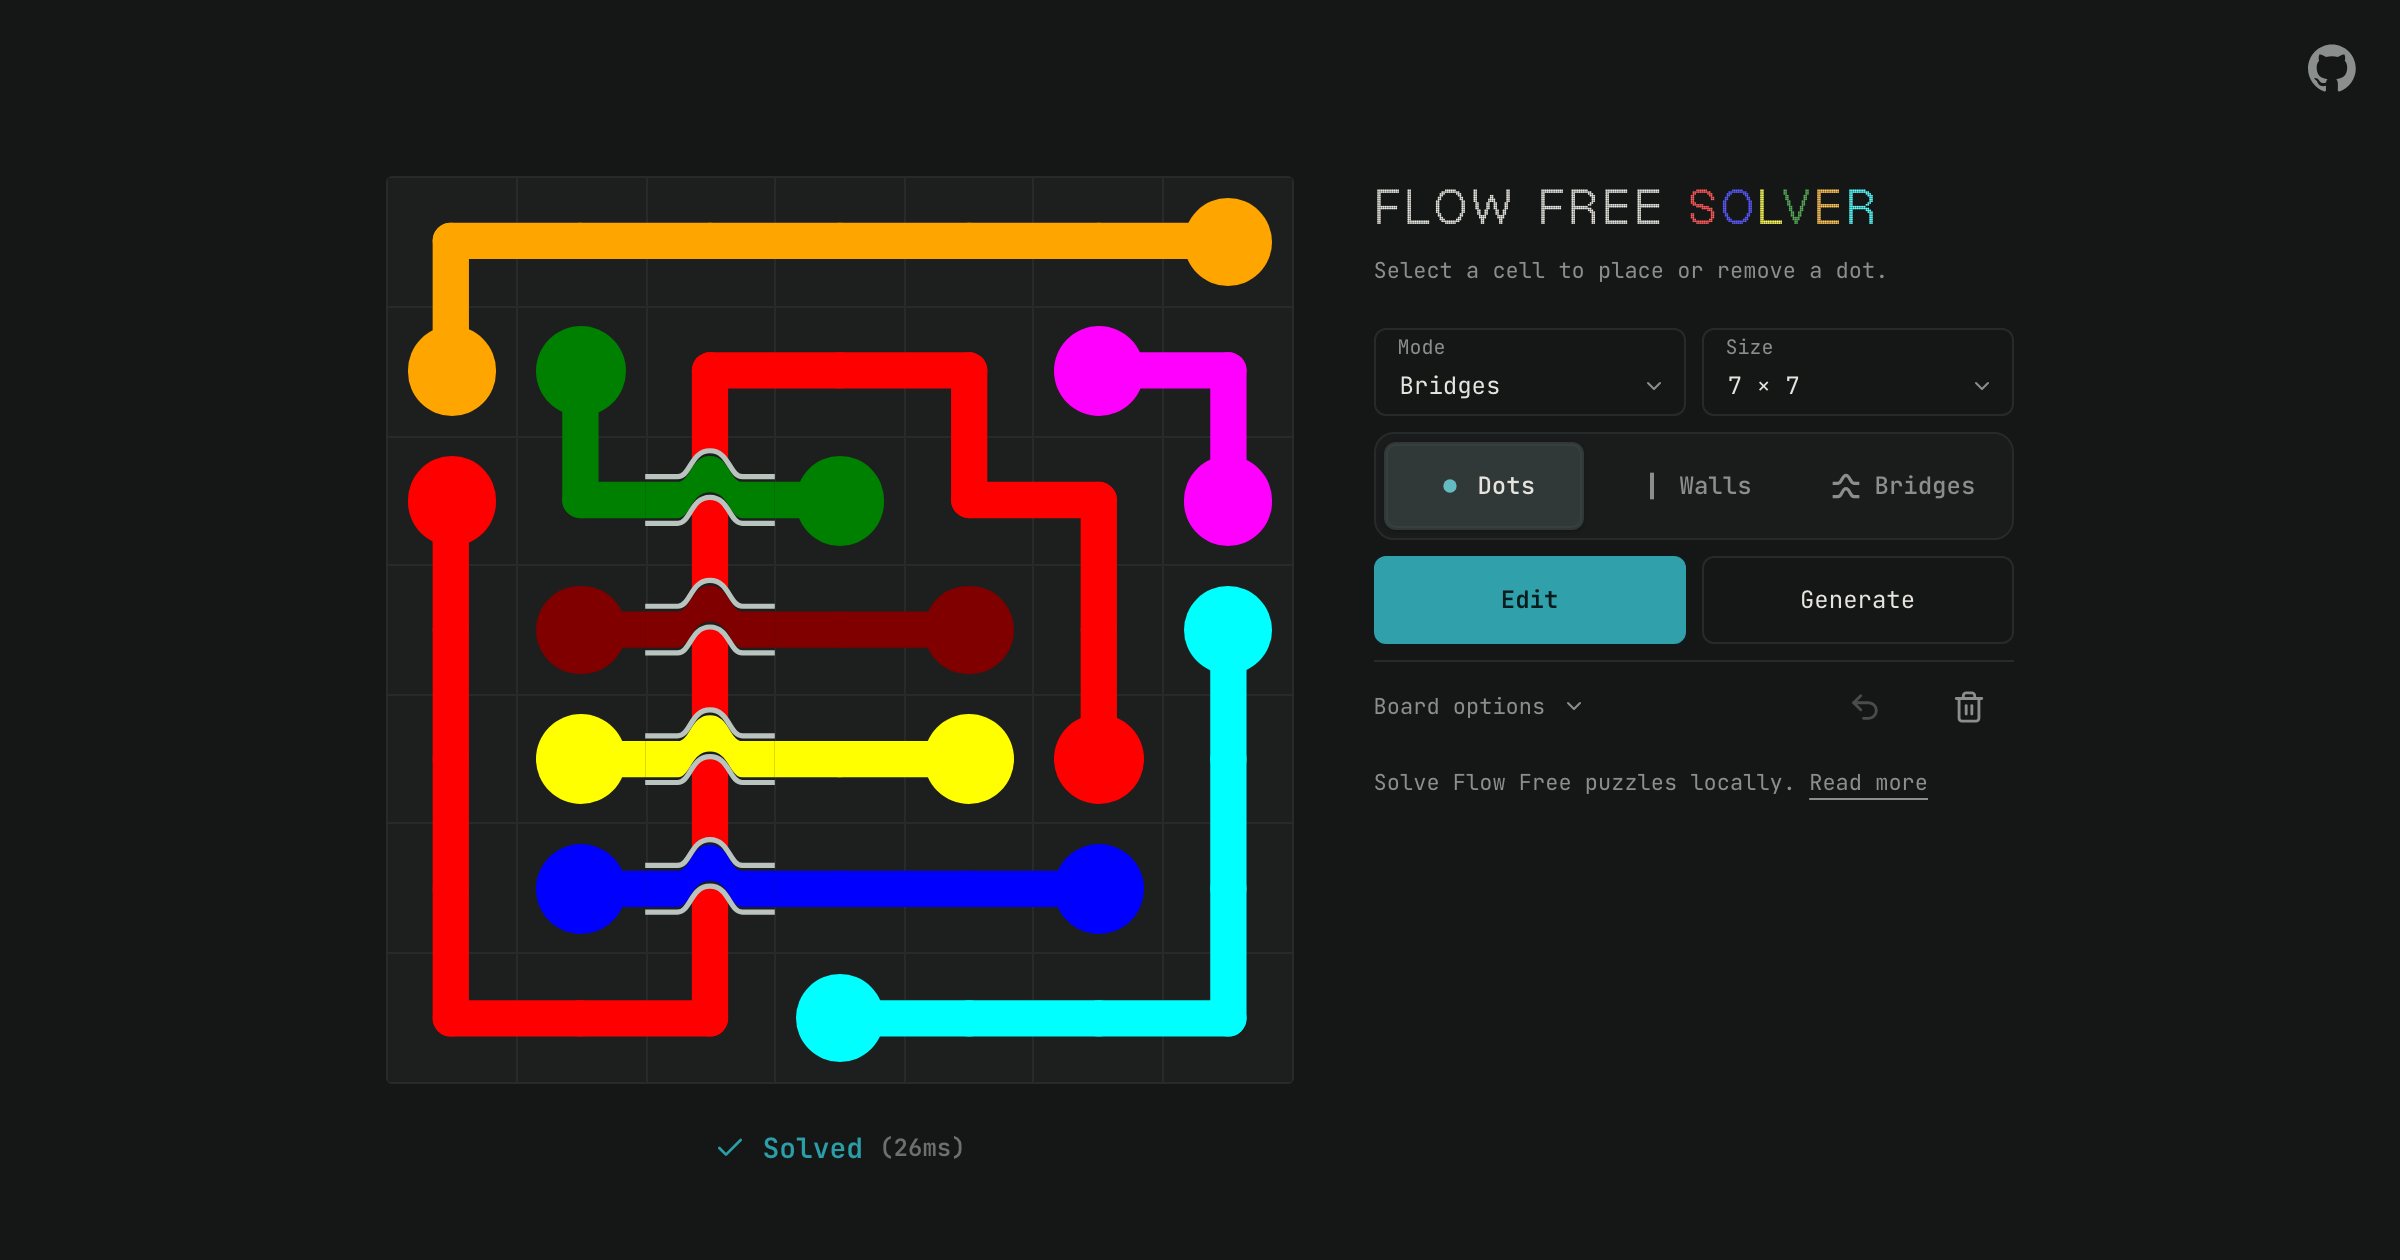
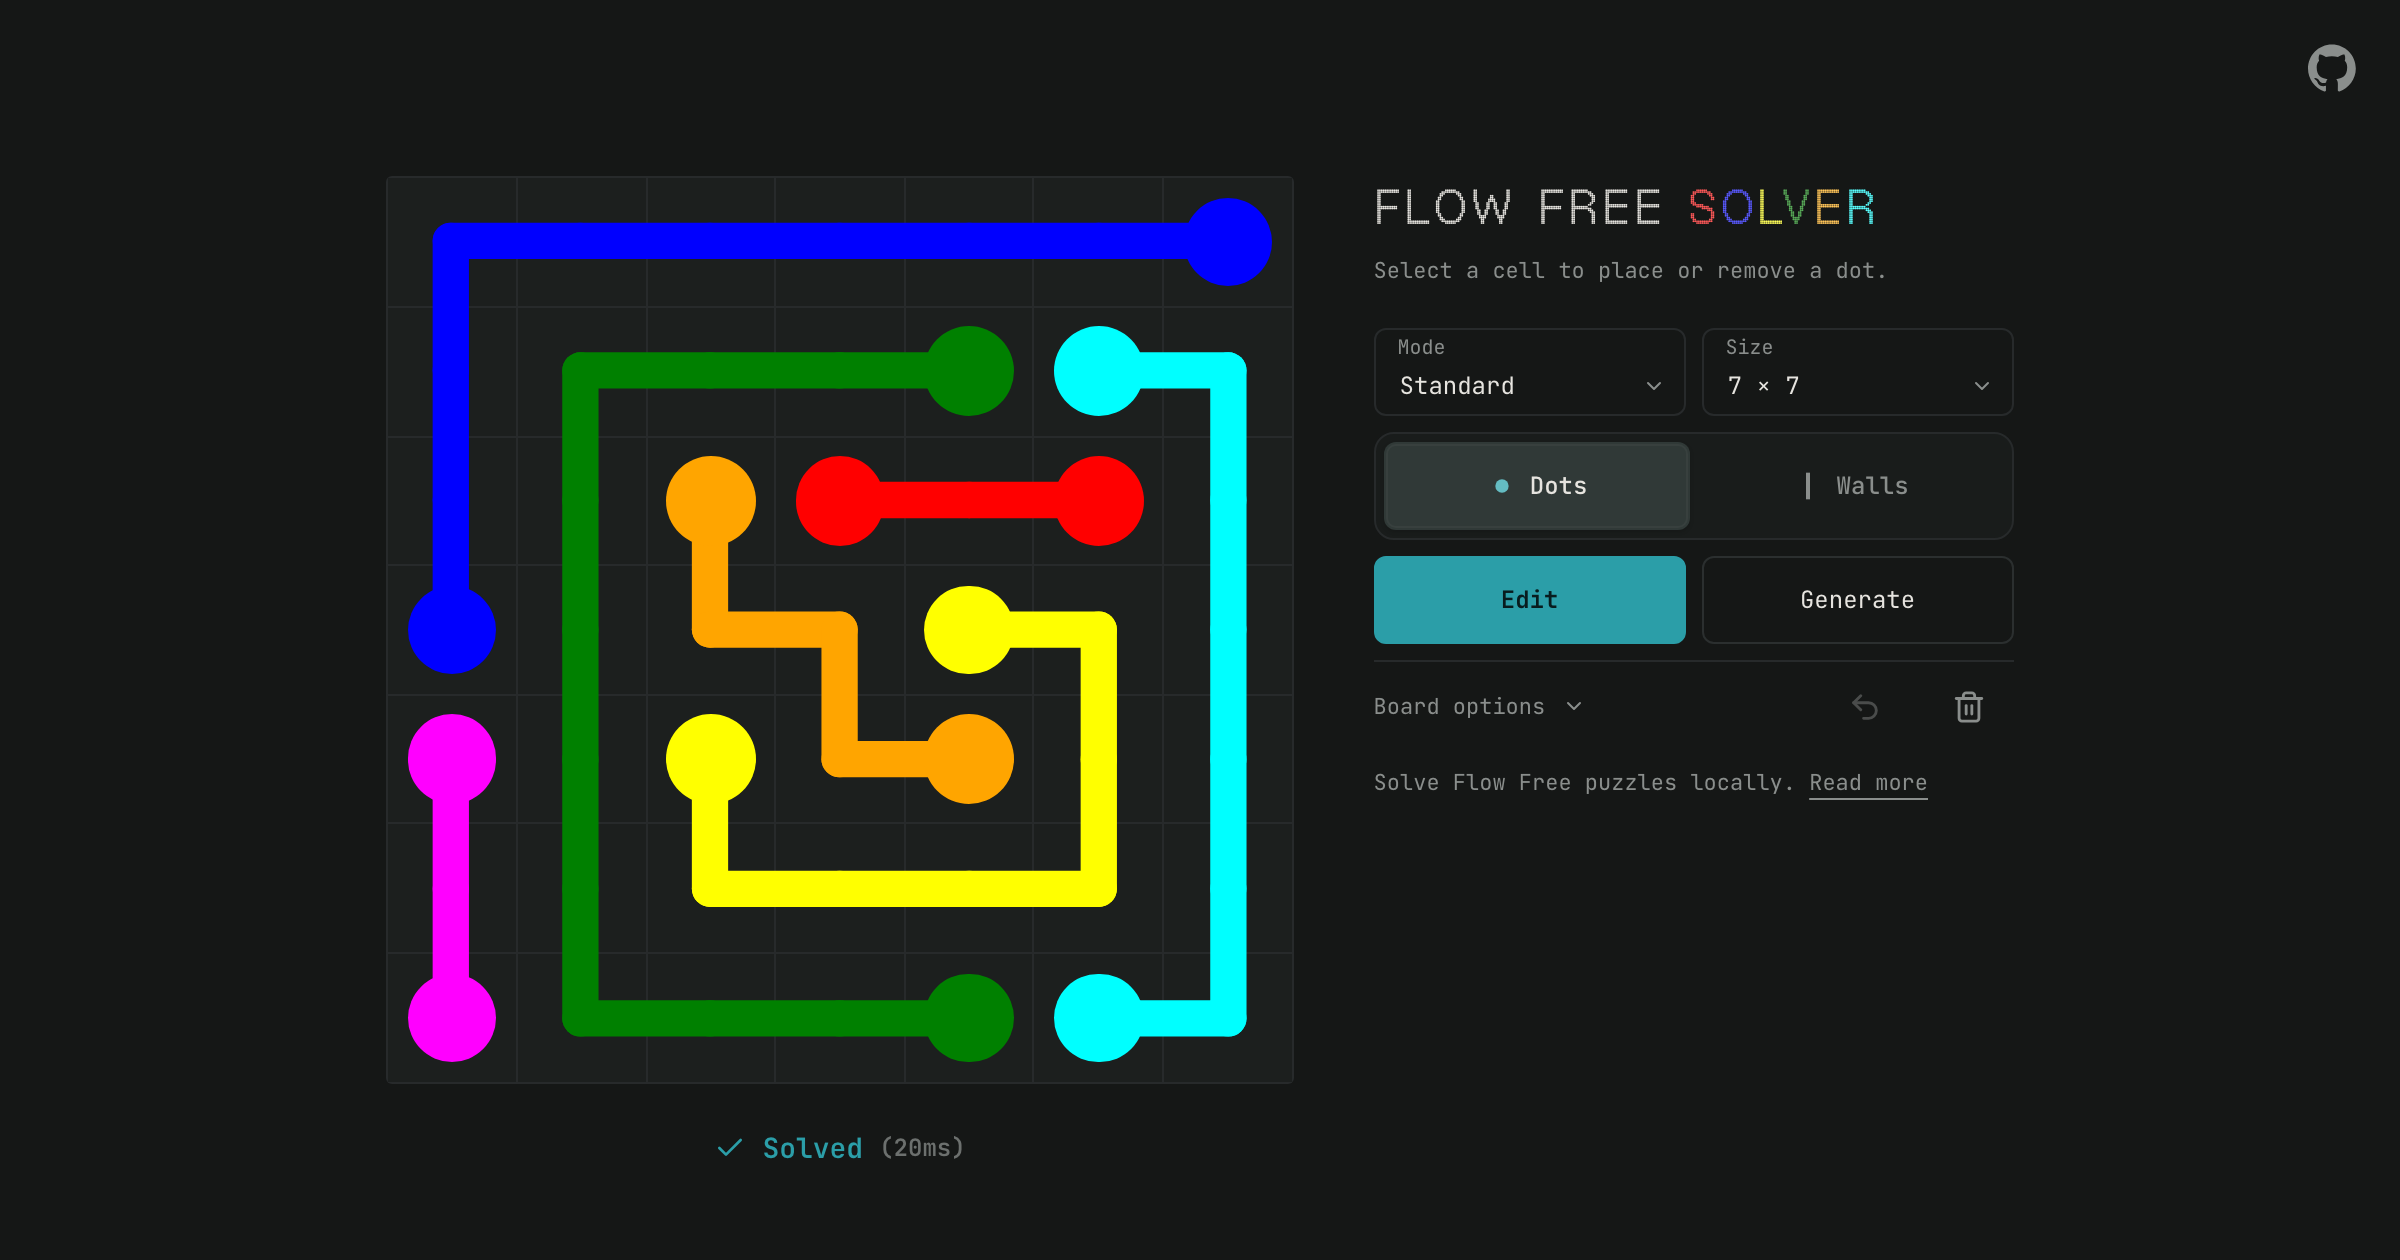
seo: add readable Standard-mode sharing cover

Changed region(s): [[0.1562, 0.1548, 0.5312, 0.8667], [0.5938, 0.3405, 0.7188, 0.4333], [0.75, 0.3714, 0.8125, 0.4024]]

diff --git a/index.html b/index.html
@@ -16,19 +16,19 @@
     content="Free online solver for Flow Free and Numberlink, including Bridges and Warps. Edit or generate 5x5 to 15x15 puzzles and solve locally in your browser." />
   <meta property="og:type" content="website" />
   <meta property="og:url" content="https://flow.kongesque.com/" />
-  <meta property="og:image" content="https://flow.kongesque.com/flow-free-solver-preview.png" />
+  <meta property="og:image" content="https://flow.kongesque.com/flow-free-solver-social.png" />
   <meta property="og:image:type" content="image/png" />
-  <meta property="og:image:width" content="2400" />
-  <meta property="og:image:height" content="1260" />
-  <meta property="og:image:alt" content="Flow Free Solver showing colored dots and paths in a solved Bridges puzzle" />
+  <meta property="og:image:width" content="1734" />
+  <meta property="og:image:height" content="907" />
+  <meta property="og:image:alt" content="Flow Free Solver sharing card with colored dots and a solved Standard puzzle; Free, Runs locally" />
   <meta property="og:site_name" content="Flow Free Solver" />
   <meta property="og:locale" content="en_US" />
   <meta name="twitter:card" content="summary_large_image" />
   <meta name="twitter:title" content="Flow Free Solver | Bridges, Warps &amp; Numberlink" />
   <meta name="twitter:description"
     content="Free online solver for Flow Free and Numberlink, including Bridges and Warps. Edit or generate 5x5 to 15x15 puzzles and solve locally in your browser." />
-  <meta name="twitter:image" content="https://flow.kongesque.com/flow-free-solver-preview.png" />
-  <meta name="twitter:image:alt" content="Flow Free Solver showing colored dots and paths in a solved Bridges puzzle" />
+  <meta name="twitter:image" content="https://flow.kongesque.com/flow-free-solver-social.png" />
+  <meta name="twitter:image:alt" content="Flow Free Solver sharing card with colored dots and a solved Standard puzzle; Free, Runs locally" />
   <meta name="twitter:creator" content="@kongesque" />
 
   <link rel="manifest" href="%BASE_URL%manifest.json" />
@@ -77,12 +77,12 @@
           ],
           "primaryImageOfPage": {
             "@type": "ImageObject",
-            "@id": "https://flow.kongesque.com/#preview",
-            "url": "https://flow.kongesque.com/flow-free-solver-preview.png",
-            "contentUrl": "https://flow.kongesque.com/flow-free-solver-preview.png",
-            "width": 2400,
-            "height": 1260,
-            "caption": "Flow Free Solver showing colored dots and paths in a solved Bridges puzzle"
+            "@id": "https://flow.kongesque.com/#sharing-image",
+            "url": "https://flow.kongesque.com/flow-free-solver-social.png",
+            "contentUrl": "https://flow.kongesque.com/flow-free-solver-social.png",
+            "width": 1734,
+            "height": 907,
+            "caption": "Flow Free Solver sharing card with colored dots and a solved Standard puzzle; Free, Runs locally"
           },
           "relatedLink": "https://www.kongesque.com/blog/flow-free-solver"
         },
@@ -108,7 +108,15 @@
             "Puzzle generation for Standard, Bridges and Warps modes",
             "Local browser-based solving on desktop and mobile"
           ],
-          "screenshot": { "@id": "https://flow.kongesque.com/#preview" },
+          "screenshot": {
+            "@type": "ImageObject",
+            "@id": "https://flow.kongesque.com/#app-screenshot",
+            "url": "https://flow.kongesque.com/flow-free-solver-preview.png",
+            "contentUrl": "https://flow.kongesque.com/flow-free-solver-preview.png",
+            "width": 2400,
+            "height": 1260,
+            "caption": "Flow Free Solver showing colored dots and paths in a solved Standard puzzle"
+          },
           "softwareHelp": {
             "@type": "WebPage",
             "url": "https://www.kongesque.com/blog/flow-free-solver",
